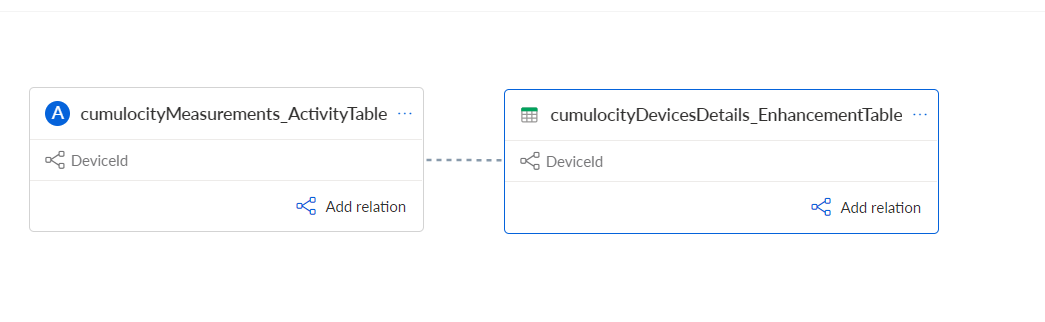
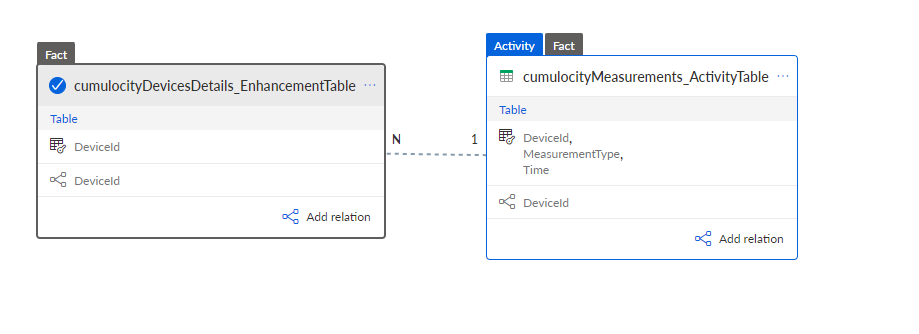
update the readme with the 2 microservices

diff --git a/tables-creation-ms/src/main/java/c8y/to/aris/tbl/creation/ms/service/ArisIntegrationService.java b/tables-creation-ms/src/main/java/c8y/to/aris/tbl/creation/ms/service/ArisIntegrationService.java
@@ -460,8 +460,7 @@ public class ArisIntegrationService<I extends ArisConnector> {
 			logger.info("All data was commited successfully in ARIS data sets!");
 			generateEventForMicroservice("All data was commited successfully in ARIS data sets! You can now connect to the ARIS Process Mining tenant to configure the tables.", "ms_arisApiResponse");
 			logger.info("You can now connect to the ARIS Process Mining tenant to configure the tables.");
-			logger.info("This microservice will auto-shutdown...");
-			App.shutdownMicroservice();
+			logger.info("This microservice job is now done, you can unsubcribe from it...");
 		} else if (cycle.getValue().compareTo("INGESTING_DATA") == 0) {
 			logger.info("The data is still being ingested.. Waiting for 10 seconds before checking the cycle state again");
 			generateEventForMicroservice("The Cumulocity data is still being ingested in ARIS... Waiting for 10 seconds before checking the cycle state again", "ms_arisApiResponse");

diff --git a/tables-creation-ms/src/main/java/c8y/to/aris/tbl/creation/ms/App.java b/tables-creation-ms/src/main/java/c8y/to/aris/tbl/creation/ms/App.java
@@ -11,21 +11,9 @@ import org.springframework.context.ConfigurableApplicationContext;
 @MicroserviceApplication
 public class App {
 	protected static final Logger logger = LoggerFactory.getLogger(App.class);
-	static ConfigurableApplicationContext appCtx;
-
+	
 	public static void main (String[] args) {
-		appCtx =  SpringApplication.run(App.class, args);
+		 SpringApplication.run(App.class, args);
 	}
 
-	public static void shutdownMicroservice()
-	{	
-		SpringApplication.exit(appCtx, new ExitCodeGenerator() {
-
-			@Override
-			public int getExitCode() {
-				// TODO Auto-generated method stub
-				return 0;
-			}
-		});
-	}
 }

diff --git a/README.md b/README.md
@@ -1,10 +1,14 @@
 # Cumulocity to ARIS Process Mining
 
-This microservice is a template demoing how to transfer Cumulocity data to an ARIS Process Mining tenant. 
+This project is a template demoing how to transfer Cumulocity data to an ARIS Process Mining tenant. It is composed of two microservices: 
 
-It is based on the Microservice SDK in Java and uses the ARIS Data Ingestion API. 
+* the first microservice creates the source tables in ARIS and upload the first set of data within it.
 
-The microservice will create **one Activity table** in ARIS where the **Cases** are the Cumulocity **Device Ids** and the **Activities** are the **Measurements** for each device.
+* the second one loads the data in the process storage of ARIS. This can be done only once an ARIS' user modeled the source tables and created any potential needed transformation. After loading the data, the microservice polls at regular interval the data from Cumulocity to send it to ARIS Process Mining in a continuous stream.
+
+Both microservices are based on the Microservice SDK in Java and uses the ARIS Data Ingestion API. 
+
+The first microservice, called *"c8y-to-aris-add-tbl-ms"*, will create **one Activity table** in ARIS where the **Cases** are the Cumulocity **Device Ids** and the **Activities** are the **Measurements** for each device.
 It will also generate **one Enhancement table** providing extra information on the **Cases**, aka the Cumulocity **Devices details**.  
 
 ## Pre-requisites
@@ -15,15 +19,16 @@ It will also generate **one Enhancement table** providing extra information on t
 
 ## Installation
 
-1. Download the latest c8y-to-aris-ms-{version}.zip from the Releases section
+1. Download the latest **c8y-to-aris-add-tbl-ms-{version}.zip** from the Releases section
 2. Open the Cumulocity tenant and navigate to **Administation** application > **Applications** > **Own applications**
 3. Click on "Add application" and select *Upload microservice*
 4. Drag and drop the downloaded zip file into the window. Do **not** subscribe to the microservice yet; some configurations need to be done before starting the microservice.
+5. Perform again steps 1 to 4 with the latest **c8y-to-aris-dataload-ms-{version}.zip** from the Releases section
 
 ## Preparations in ARIS Process Mining
 ### Create a system integration for the data ingestion API
 
-For the microservice to be able to use the ARIS data ingestion API, a system integration needs to be created.
+For the microservices to be able to use the ARIS data ingestion API, a system integration needs to be created.
 
 <ins>Procedure</ins>
 1. Log-on to the ARIS Process Mining tenant
@@ -39,7 +44,7 @@ The system integration is created and listed with the name you specified.
 
 ### Create a data set and a connection to it
 
-The microservice needs an ARIS Process Mining data set to transfer Cumulocity data into it and also a corresponding connection to this data set for the transferred data to be stored.  
+The microservices needs an ARIS Process Mining data set to transfer Cumulocity data into it and also a corresponding connection to this data set for the transferred data to be stored.  
 
 <ins>Procedure</ins>
 1. Click the **Navigation menu** icon > **Data Collection** in the program header.
@@ -67,7 +72,7 @@ You have created a connection for the API. The created connection is displayed o
 
 ## Preparations in Cumulocity
 
-The microservice is hosted on the Cumulocity tenant and therefore it needs the ARIS tenant details in order to connect to it. This information is configured in Cumulocity via tenant options. 
+The microservices are hosted on the Cumulocity tenant and therefore they need the ARIS tenant details in order to connect to it. This information is configured in Cumulocity via tenant options. 
 
 To create a tenant option, use the below Cumulocity API:
 ```
@@ -79,7 +84,7 @@ POST {{c8y_url}}/tenant/options
 }
 ```
 
-There are seven options to add before running the microservice and they shall **all** be added using the category **aris-pm-configuration**. They key and value to use are as per below:
+There are seven options to add before running the microservices and they shall **all** be added using the category **aris-pm-configuration**. They key and value to use are as per below:
 
 1. **apiBaseUrl**: the value here should be the ARIS tenant url (eg: https://processmining.ariscloud.com)
 
@@ -91,17 +96,17 @@ There are seven options to add before running the microservice and they shall **
 
 5. **dataset**: the value here should be the name of the data set created in *step 4* of *Create a data set and a connection to it*. **Please note that the value should be all in lower case**, for example, cumulocityiot
 
-6. **c8yNbDaysOfMeasurements**: the value here should be an integer (eg 5) representing the date range for which the Cumulocity Measurements will be extracted the first time they are extracted. For example if the value is set to 5 then the microservice will extract all the measurements from the past 5 days. It is necessary to enter an amount of days here; indeed, in ARIS Process Mining, one Case (so here a device) cannot have **more than 5000 activities**. Since the microservice is using the Measurement types as Activities, you need to make sure that the number of measurements extracted per device will not be over 5000. If it exceeeds, then the case (aka the device) and related activities (aka the measurements) will not be visible in ARIS. Please note this is used only the first time it will extract the measurements; thereafter the measurements will be polled on a rolling window basis.
+6. **c8yNbDaysOfMeasurements**: the value here should be an integer (eg 5) representing the date range for which the Cumulocity Measurements will be extracted the first time they are extracted. For example if the value is set to 5 then the first microservice will extract all the measurements from the past 5 days. It is necessary to enter an amount of days here; indeed, in ARIS Process Mining, one Case (so here a device) cannot have **more than 5000 activities**. Since the microservice is using the Measurement types as Activities, you need to make sure that the number of measurements extracted per device will not be over 5000. If it exceeeds, then the case (aka the device) and related activities (aka the measurements) will not be visible in ARIS. Please note this is used only the first time it will extract the measurements; thereafter the measurements will be polled on a rolling window basis by the second microservice.
 
-7. **pollingIntervalInMinutes**: the value here indicates the polling interval in minutes to retrieve the Cumulocity Measurements and Managed objects. On start-up, the microservice will retrieve the Measurements for the past **c8yNbDaysOfMeasurements** days; afterwards, it will retrieve them every X minutes, using the latest polling time as the **fromDate** parameter of the Cumulocity REST API. This will ensure the microservice retrieves the devices and measurements on a rolling window.
+7. **pollingIntervalInMinutes**: the value here indicates the polling interval in minutes to retrieve the Cumulocity Measurements and Managed objects. On start-up, the first microservice will retrieve the Measurements for the past **c8yNbDaysOfMeasurements** days; afterwards, the second microservice will retrieve them every X minutes, using the latest polling time as the **fromDate** parameter of the Cumulocity REST API. This will ensure the microservice retrieves the devices and measurements on a rolling window.
 
 
 ## Start the Microservice and monitor it
 
-Now that all the configurations steps are done; the microservice can start and connect to ARIS. To do so and monitor the progress; perform the below steps:
+Now that all the configurations steps are done; the first microservice can start and connect to ARIS. To do so and monitor the progress; perform the below steps:
 
 1. Open the Cumulocity tenant and navigate to **Administation** application > **Applications** > **Own applications**
-2. Click on the **c8y-to-aris-ms** application.
+2. Click on the **c8y-to-aris-add-tbl-ms** application.
 3. On the top right, click on **Subscribe**
 4. Wait a few seconds and refresh the page, a **Logs** tab should now exist and after about a minute the microservice should connect successfully to ARIS. It will log out all the ARIS API requests made and all the responses received. It will also display any valubale information as well as warning and error messages if any. 
 5. For a more user-friendly interface than the logs, the user can also visualize all the exchanges made between Cumulocity and ARIS PM via the **Device Management** appplication. 
@@ -124,12 +129,12 @@ Now that all the configurations steps are done; the microservice can start and c
 
 ![Image](https://github.com/SoftwareAG/cumulocity-to-aris-pm/blob/master/img/data_set_status.PNG)
 
-14. Once the microservice has succefully created the 2 data sets; pushed the devices and measurements data into it and commited the data to ARIS, then the microservice will wait for **2 minutes** to try and load the data in the ARIS process storage. This time is for the user to configure the source table in the **Data Modeling** section. The Run logs of ARIS will be showed as successful and the data set status will be shown at **Data pending**
+14. Once the microservice has succefully created the 2 data sets; pushed the devices and measurements data into it and commited the data to ARIS, then the microservice job is done here. It is time now for the user to configure the source table in the **Data Modeling** section of ARIS Process Mining. The Run logs of ARIS will be showed as successful and the data set status will be shown at **Data pending**
 
 ### Perform data modeling on the source tables
 
-When the microservice has committed successfully the Cumulocity data to the source tables, it will wait for 2 minutes before resuming its tasks. The Event displayed in Cumulocity will have the text: 
-*Waiting 2 minutes for the user to configure the tables before loading the data in the process storage... Please configure the tables during this time.*
+When the microservice has committed successfully the Cumulocity data to the source tables, it will generate an event. The Event displayed in Cumulocity will have the text: 
+*All data was commited successfully in ARIS data sets! You can now connect to the ARIS Process Mining tenant to configure the tables.*
 
 Connect to ARIS Process Mining and perform the below steps:
 
@@ -148,15 +153,26 @@ Connect to ARIS Process Mining and perform the below steps:
 7. You should now see the 2 sources tables in the data modeling page with **cumulocityMeasurements_ActivityTable** set as an **Activity table**
 8. Click on **Add Relation** on the table **cumulocityMeasurements_ActivityTable** 
 9. Click on **Connect with table** on the table **cumulocityDeviceDetails_EnhancementTable**
-10. The **Edit relation** page opens: here click on the **DeviceId** column of each table
-11. Click on **Confirm**
+10. The **Edit relation** page opens: here click on the **DeviceId** column of each table. Ensure that the relation is 1 Activity for N Devices otherwise it would not work. You can click on the "Swap tables" button to ensure you have the same relation than as per below image.
+
+![Image](https://github.com/SoftwareAG/cumulocity-to-aris-pm/blob/master/img/relation-creation.PNG)
+
+11. Click on **Add relation**
 12. The tables are now linked to one another.
+13. Click on **Configure merge key** on the Enhancement table.
+14. Select **DeviceId** and click on **Set**
+
 
 ![Image](https://github.com/SoftwareAG/cumulocity-to-aris-pm/blob/master/img/tables_relation.PNG)
 
 ### Data Load in the Process Storage
 
-Now that the tables are linked, the data can be loaded and stored in the process storage. After the 2 minutes wait, the microservice will automatically tries to load the data. It will first check if the data set is ready for the data load. If the response from ARIS is that it is ready the the data load will kick off and the user can follow the progress via the Cumulocity Events or via the Run Logs of ARIS. However, if ARIS responds that the data set is not ready for the data load (for example the user did not finish to configure the tables); then the microservice will wait and try again every 2 minutes. A Cumulocity Alarm will be generated as well to alert the user that the data load attempt did not succeed.
+Now that the tables are linked, the data can be loaded and stored in the process storage. It is now time to subscribe to the second microservice which will automatically try to load the data. It will first check if the data set is ready for the data load. If the response from ARIS is that it is ready the the data load will kick off and the user can follow the progress via the Cumulocity Events or via the Run Logs of ARIS. However, if ARIS responds that the data set is not ready for the data load (for example the user is creating some transformations); then the microservice will wait and try again every 2 minutes. A Cumulocity Alarm will be generated as well to alert the user that the data load attempt did not succeed.
+To start the second microservice, follow the below steps:
+
+1. Open the Cumulocity tenant and navigate to **Administation** application > **Applications** > **Own applications**
+2. Click on the **c8y-to-aris-dataload-ms** application.
+3. On the top right, click on **Subscribe**
 
 When the data load is triggered successfully by the microservice, the user can visualize the progress as well on ARIS side. 
 
@@ -191,7 +207,7 @@ Below is a brief example of an analysis using the App Builder.
 
 ## Adapt the Microservice to your needs
 
-This microservice is a template which can be re-used as is or adapted to meet customer needs. For example you might want to extract a different Activity table or maybe extract more columns from Cumulocity.
+Those microservices are a template which can be re-used as is or adapted to meet customer needs. For example you might want to extract a different Activity table or maybe extract more columns from Cumulocity.
 
 There are only 2 Java classes which need to be modified if you want to retrieve different data from Cumulocity:
 
